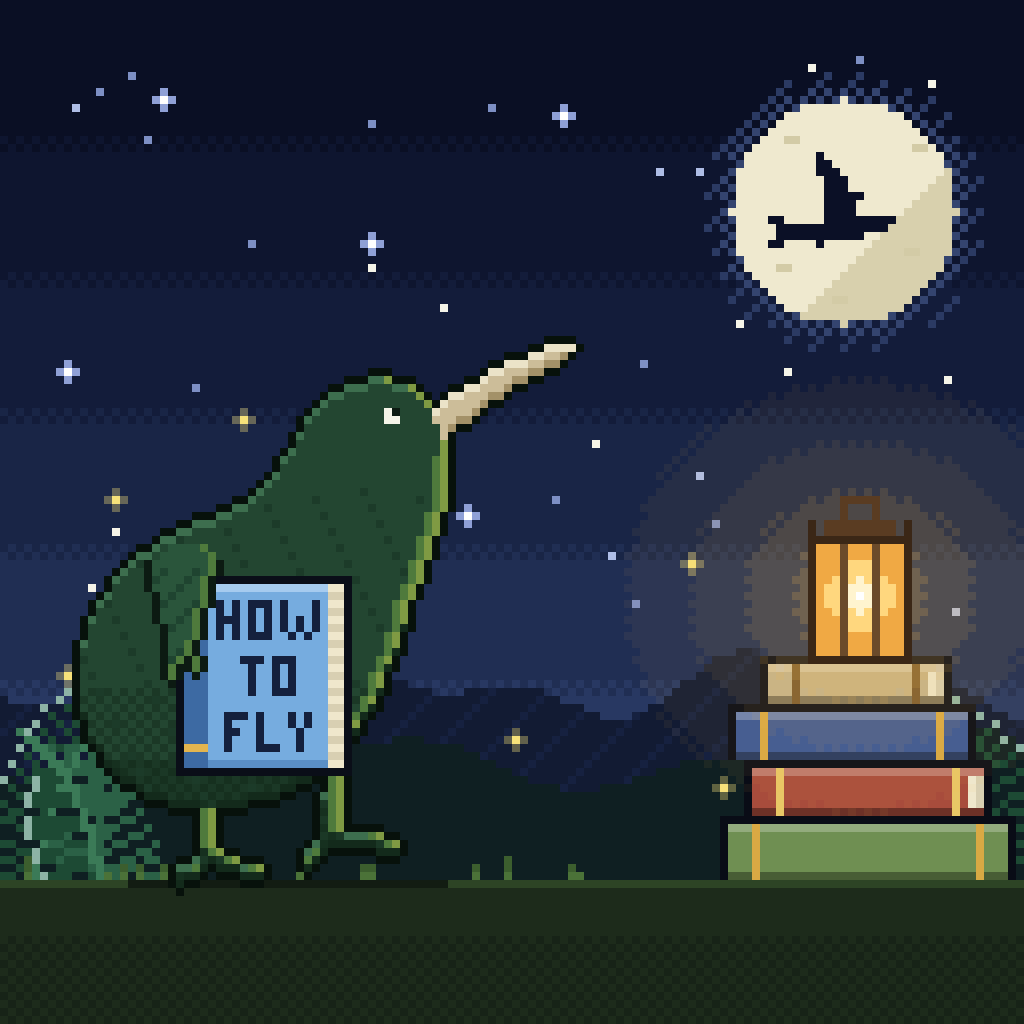
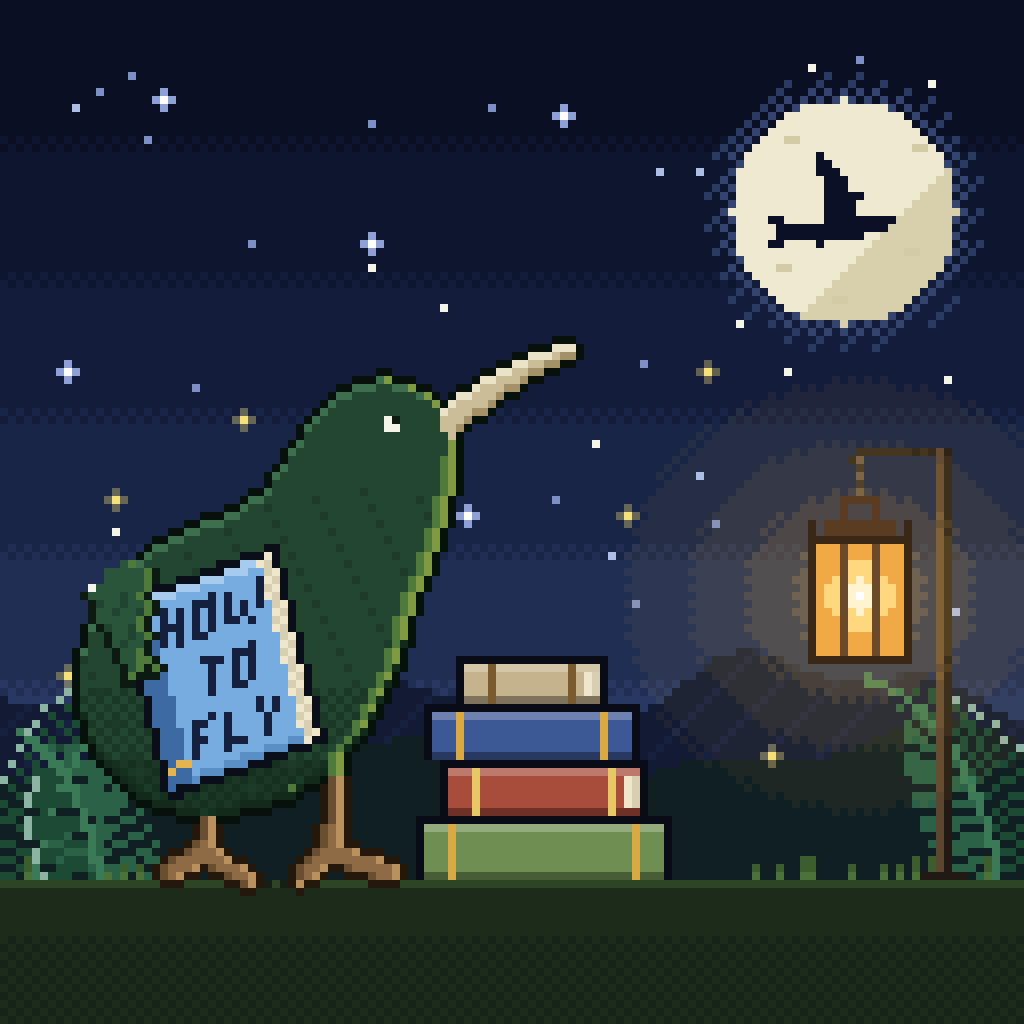
fix: refine Kiwi card art and retitle it 几维 / Kiwi
- Brown legs planted on the ground, book held diagonally under the wing
- Book stack beside the kiwi; the lantern keeps its place on a hook post
- Card title no longer shows the domain; the card still links to kiwiai.org

Claude-Session: https://claude.ai/code/session_01A2wmAvDCzXz5kL4nQaLBhx

diff --git a/CHANGELOG.md b/CHANGELOG.md
@@ -3,7 +3,7 @@
 ### Features
 
 - About: added a line on Kiwi (kiwiai.org) and Kiwi Code.
-- Projects: replaced the kiwi-icon design card with a Kiwi / kiwiai.org card and a new pixel-art thumbnail (`assets/img/kiwi_card.png`); dropped the now-empty `design` category.
+- Projects: replaced the kiwi-icon design card with a 几维 / Kiwi card linking to kiwiai.org and a new pixel-art thumbnail (`assets/img/kiwi_card.png`); dropped the now-empty `design` category.
 - Blog: shown in the navbar right after publications, with an empty state; cleared the template tag/category bar.
 
 ### Design Rationale

diff --git a/_projects/kiwi.md b/_projects/kiwi.md
@@ -1,6 +1,6 @@
 ---
 layout: page
-title: Kiwi / kiwiai.org
+title: 几维 / Kiwi
 description: An open-source learning platform where teachers and students build learning activities from course materials, AI assistance, and custom apps. Kiwi Code, its next generation, is on the way!
 img: assets/img/kiwi_card.png
 importance: 0
